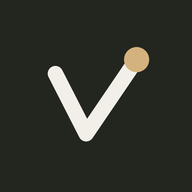
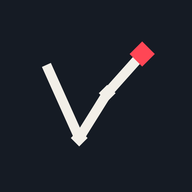
Restore the Valtrack rank progression mark with sharper checkpoints

Changed region(s): [[0.2188, 0.2188, 0.8125, 0.7812], [0.5938, 0.375, 0.625, 0.4062]]

diff --git a/index.html b/index.html
@@ -18,14 +18,16 @@ try { var p = localStorage.getItem("vt:theme") || "auto"; document.documentEleme
 <body>
 <svg width="0" height="0" style="position:absolute" aria-hidden="true">
   <symbol id="logo" viewBox="0 0 96 96" fill="currentColor">
-    <g id="logo-line"><path d="M19 32 41 75 77 22" fill="none" stroke="currentColor" stroke-width="11" stroke-linecap="round" stroke-linejoin="round" pathLength="1"/></g>
-    <g id="logo-tip" fill="inherit"><circle cx="77" cy="22" r="9"/></g>
+    <g id="logo-line"><path d="M14 29 36 78 56 46 81 18" fill="none" stroke="currentColor" stroke-width="7" stroke-linecap="square" stroke-linejoin="bevel" pathLength="1"/></g>
+    <g id="logo-checkpoints"><path d="M36 72l6 6-6 6-6-6Z"/><path d="M56 40l6 6-6 6-6-6Z"/></g>
+    <g id="logo-tip" fill="#FF4655"><path d="M81 9l9 9-9 9-9-9Z"/></g>
   </symbol>
 </svg>
 
 <div id="splash" class="splash" aria-hidden="true">
   <svg class="splash-logo" viewBox="0 0 96 96">
     <use href="#logo-line" class="splash-line"/>
+    <use href="#logo-checkpoints" class="splash-checkpoints"/>
     <use href="#logo-tip" class="splash-peak"/>
   </svg>
 </div>

diff --git a/style.css b/style.css
@@ -77,7 +77,9 @@ label { display: grid; gap: 2px; font-size: .82rem; color: var(--muted); }
 .splash.is-done { opacity: 0; visibility: hidden; }
 .splash-logo { width: min(140px, 36vw); height: auto; overflow: visible; }
 .splash-line { color: var(--ink); stroke-dasharray: 1; animation: splash-draw .7s cubic-bezier(.6, 0, .3, 1) both; }
-.splash-peak { fill: var(--wood); transform-box: fill-box; transform-origin: center; animation: splash-pop .35s ease-out .65s both, splash-pulse 1.4s ease-in-out 1s infinite; }
+.splash-checkpoints { fill: var(--ink); animation: splash-checkpoints .2s .48s both; }
+@keyframes splash-checkpoints { from { opacity: 0; } }
+.splash-peak { transform-box: fill-box; transform-origin: center; animation: splash-pop .35s ease-out .65s both, splash-pulse 1.4s ease-in-out 1s infinite; }
 @keyframes splash-draw { from { stroke-dashoffset: 1; } }
 @keyframes splash-pop { from { transform: scale(0); } }
 @keyframes splash-pulse { 50% { transform: scale(1.18); } }

diff --git a/sw.js b/sw.js
@@ -1,5 +1,5 @@
 /* Offline support: the app files are cached and refreshed in the background. API calls are never cached. */
-const CACHE = "vt-v44-vector-logo";
+const CACHE = "vt-v44-rank-track-logo";
 const SHELL = ["./", "index.html", "style.css", "script.js", "insights.js", "friends.js", "store.js", "store-private.js", "enhancements.js", "changelog.js", "manifest.webmanifest", "logo.svg", "icon-192.png", "icon-512.png", "icon-180.png"];
 
 self.addEventListener("install", (e) => {
